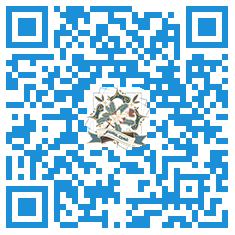
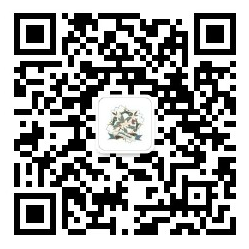
Yume AIO Frontend 27.1.1 (c)

diff --git a/frontend/index.html b/frontend/index.html
@@ -136,18 +136,18 @@
                             <!--社交链接-->
                             <div class="social" id="social">
                                 <button class="link" id="phone" show-lang="zh-cn,zh-tw,fr,en,ja">
-                                    <svg class="icon-28px-pd8" xmlns="http://www.w3.org/2000/svg" width="1em" height="1em" viewBox="0 0 24 24"><path fill="currentColor" d="M22 17.002a6 6 0 0 1-4.713 5.86l-.638-1.914A4 4 0 0 0 19.465 19H17a2 2 0 0 1-2-2v-4a2 2 0 0 1 2-2h2.938a8.001 8.001 0 0 0-15.876 0H7a2 2 0 0 1 2 2v4a2 2 0 0 1-2 2H4a2 2 0 0 1-2-2v-5C2 6.477 6.477 2 12 2s10 4.477 10 10zM20 17v-4h-3v4zM4 13v4h3v-4z"/></svg>
+                                    <svg class="icon-28px-pd8" xmlns="http://www.w3.org/2000/svg" width="1em" height="1em" viewBox="0 0 24 24"><g fill="none" stroke="currentColor" stroke-linecap="round" stroke-linejoin="round" stroke-width="1.5"><path d="M21 12a9 9 0 1 1-18 0a9 9 0 0 1 18 0"/><path d="m18 6l-3.525 3.525M6 18l3.525-3.525M6 6l3.525 3.525M18 18l-3.525-3.525m-4.95 0c-1.348-1.348-1.348-3.601 0-4.95m0 4.95c1.348 1.348 3.601 1.348 4.95 0m0 0c1.348-1.348 1.348-3.601 0-4.95m0 0c-1.348-1.348-3.601-1.348-4.95 0"/></g></svg>
                                 </button>
+                                <a href="mailto:support@yume.zone" class="link" show-lang="zh-cn,zh-tw,fr,en,ja" id="email">
+                                    <svg class="icon-28px-pd8" xmlns="http://www.w3.org/2000/svg" width="1em" height="1em" viewBox="0 0 24 24"><g fill="none" stroke="currentColor" stroke-linecap="round" stroke-linejoin="round" stroke-width="1.5"><path d="M22 12.5c0-.491-.005-1.483-.016-1.976c-.065-3.065-.098-4.598-1.229-5.733c-1.131-1.136-2.705-1.175-5.854-1.254a115 115 0 0 0-5.802 0c-3.149.079-4.723.118-5.854 1.254c-1.131 1.135-1.164 2.668-1.23 5.733a69 69 0 0 0 0 2.952c.066 3.065.099 4.598 1.23 5.733c1.131 1.136 2.705 1.175 5.854 1.254q1.204.03 2.401.036"/><path d="m7 8.5l2.942 1.74c1.715 1.014 2.4 1.014 4.116 0L17 8.5m5 9h-8m8 0c0-.7-1.994-2.008-2.5-2.5m2.5 2.5c0 .7-1.994 2.009-2.5 2.5"/></g></svg>
+                                </a>
                                 <a href="https://qm.qq.com/cgi-bin/qm/qr?k=TZsNAa_Lo7-WfwiXsBkCgVZA6vFeVjRp&noverify=0&personal_qrcode_source=4" class="link"
                                     id="qq" show-lang="zh-cn" target="_blank">
                                     <svg class="icon-28px-pd8" xmlns="http://www.w3.org/2000/svg" width="1em" height="1em" viewBox="0 0 24 24"><path fill="currentColor" d="M19.914 14.529a32 32 0 0 0-.676-1.886l-.91-2.246c.002-.026.013-.468.013-.696C18.34 5.86 16.508 2 12 2S5.66 5.86 5.66 9.7c0 .229.011.671.012.697l-.91 2.246a32 32 0 0 0-.675 1.886c-.86 2.737-.581 3.87-.369 3.895c.455.054 1.771-2.06 1.771-2.06c0 1.224.637 2.822 2.016 3.976c-.515.157-1.147.399-1.554.695c-.365.267-.319.54-.253.65c.289.481 4.955.307 6.303.157c1.347.15 6.014.324 6.302-.158c.066-.11.112-.382-.253-.649c-.407-.296-1.039-.538-1.555-.695c1.379-1.154 2.016-2.752 2.016-3.977c0 0 1.316 2.115 1.771 2.06c.212-.025.49-1.157-.37-3.894"/></svg>
                                 </a>
-                                <button class="link" id="wechat" show-lang="zh-cn,zh-tw">
+                                <button class="link" id="wechat">
                                     <svg class="icon-32px-pd8" xmlns="http://www.w3.org/2000/svg" width="1em" height="1em" viewBox="0 0 24 24"><path fill="currentColor" d="M15.85 8.14c.39 0 .77.03 1.14.08C16.31 5.25 13.19 3 9.44 3c-4.25 0-7.7 2.88-7.7 6.43c0 2.05 1.15 3.86 2.94 5.04L3.67 16.5l2.76-1.19c.59.21 1.21.38 1.87.47c-.09-.39-.14-.79-.14-1.21c-.01-3.54 3.44-6.43 7.69-6.43M12 5.89a.96.96 0 1 1 0 1.92a.96.96 0 0 1 0-1.92M6.87 7.82a.96.96 0 1 1 0-1.92a.96.96 0 0 1 0 1.92"/><path fill="currentColor" d="M22.26 14.57c0-2.84-2.87-5.14-6.41-5.14s-6.41 2.3-6.41 5.14s2.87 5.14 6.41 5.14c.58 0 1.14-.08 1.67-.2L20.98 21l-1.2-2.4c1.5-.94 2.48-2.38 2.48-4.03m-8.34-.32a.96.96 0 1 1 .96-.96c.01.53-.43.96-.96.96m3.85 0a.96.96 0 1 1 0-1.92a.96.96 0 0 1 0 1.92"/></svg>
                                 </button>
-                                </a>
-                                <a href="mailto:support@yume.zone" class="link" show-lang="zh-cn,zh-tw,fr,en,ja" id="email">
-                                    <svg class="icon-32px-pd8" xmlns="http://www.w3.org/2000/svg" width="1em" height="1em" viewBox="0 0 24 24"><g fill="currentColor" fill-rule="evenodd" stroke-width="1.5" clip-rule="evenodd"><path d="M7 4.25A2.75 2.75 0 0 0 4.25 7v1.25H5A2.25 2.25 0 0 1 6.677 12A2.25 2.25 0 0 1 5 15.75h-.75V17A2.75 2.75 0 0 0 7 19.75h13A2.75 2.75 0 0 0 22.75 17V7A2.75 2.75 0 0 0 20 4.25zm2.416 4.126a.75.75 0 0 0-.832 1.248l4.5 3a.75.75 0 0 0 .832 0l4.5-3a.75.75 0 0 0-.832-1.248L13.5 11.099z"/><path d="M5.75 13.5a.75.75 0 0 1-.75.75H3a.75.75 0 0 1 0-1.5h2a.75.75 0 0 1 .75.75m0-3a.75.75 0 0 1-.75.75H1a.75.75 0 0 1 0-1.5h4a.75.75 0 0 1 .75.75"/></g></svg>
                                 </a>
                                 <a href="https://t.me/yumeprincess" class="link" id="telegram" show-lang="fr,en,ja,zh-tw" target="_blank">
                                     <svg class="icon-28px-pd8" xmlns="http://www.w3.org/2000/svg" width="1em" height="1em" viewBox="0 0 24 24"><g fill="none"><g clip-path="url(#SVGXv8lpc2Y)"><path fill="currentColor" fill-rule="evenodd" d="M24 12c0 6.627-5.373 12-12 12S0 18.627 0 12S5.373 0 12 0s12 5.373 12 12M12.43 8.859q-1.75.728-6.998 3.014q-.852.339-.893.663c-.046.366.412.51 1.034.705l.263.084c.613.199 1.437.432 1.865.441q.583.012 1.302-.48q4.902-3.31 5.061-3.346c.075-.017.179-.039.249.024c.07.062.063.18.056.212c-.046.193-1.84 1.862-2.77 2.726c-.29.269-.495.46-.537.504q-.143.145-.282.279c-.57.548-.996.96.024 1.632c.49.323.882.59 1.273.856c.427.291.853.581 1.405.943q.21.14.405.28c.497.355.944.673 1.496.623c.32-.03.652-.331.82-1.23c.397-2.126 1.179-6.73 1.36-8.628a2 2 0 0 0-.02-.472a.5.5 0 0 0-.172-.325c-.143-.117-.365-.142-.465-.14c-.451.008-1.143.249-4.476 1.635" clip-rule="evenodd"/></g><defs><clipPath id="SVGXv8lpc2Y"><path fill="#fff" d="M0 0h24v24H0z"/></clipPath></defs></g></svg>
@@ -507,14 +507,21 @@
                 </div>   
                 <!-- 微信弹窗 -->
                 <div class="popup" id="wechat-popup">
-                    <div class="popup-content">
-                        <h3 key="YOVXFWH">雨梦Official服务号</h3>
-                        <p key="SMGZFWH">请扫描以下二维码或点击跳转链接按钮关注雨梦Official服务号</p>
-                        <!-- 二维码图片 -->
-                        <img src="/img/officialwx.png" class="wechat-qrcode" loading="lazy" decoding="async">
-                        <div class="button-group">
-                            <button class="btn cancel-btn" id="wechat-cancel" key="QUXIAO">取消</button>
-                            <button class="btn confirm-btn" id="wechat-link" key="TIAOZHUANVXLIANJIE">跳转链接</button>
+                    <div class="popup-content wechat-popup-content">
+                        <h3 key="WECHAT_TITLE">雨梦微信公众号、小程序</h3>
+                        <p key="WECHAT_DESCRIPTION">请使用微信扫描以下二维码关注雨梦Official微信公众号和使用雨梦All in One小程序。</p>
+                        <div class="wechat-qr-codes">
+                            <figure class="wechat-qr-item">
+                                <img src="/img/officialwx.png" class="wechat-qrcode" alt="雨梦Official微信公众号二维码" loading="lazy" decoding="async">
+                                <figcaption key="WECHAT_OFFICIAL_CAPTION">雨梦Official服务号</figcaption>
+                            </figure>
+                            <figure class="wechat-qr-item">
+                                <img src="/img/officialxcx.png" class="wechat-qrcode" alt="Yume All in One小程序二维码" loading="lazy" decoding="async">
+                                <figcaption key="WECHAT_MINI_PROGRAM_CAPTION">Yume All in One小程序</figcaption>
+                            </figure>
+                        </div>
+                        <div class="button-group wechat-button-group">
+                            <button class="btn cancel-btn" id="wechat-cancel" type="button" key="WECHAT_CLOSE">关闭</button>
                         </div>
                     </div>
                 </div>    
@@ -540,9 +547,9 @@
     <script type="text/javascript" src="/js/iziToast.min.js"></script>
     <script src="/js/swiper-bundle.min.js"></script>
     <script type="text/javascript" src="/js/link.js"></script>
-    <script type="text/javascript" src="/js/lang.js?v=20260718-2"></script>
+    <script type="text/javascript" src="/js/lang.js?v=20261005-1"></script>
     <script src="/js/loading-resources.js?v=20261003-background-2"></script>
-    <script type="text/javascript" src="/js/main.js?v=20261003-background-2"></script>
+    <script type="text/javascript" src="/js/main.js?v=20261005-1"></script>
     <script type="text/javascript" src="/js/time.js?v=20260718-1"></script>
     <script type="text/javascript" src="/js/js.cookie.js"></script>
     <script type="text/javascript" src="/js/set.js?v=20261003-resources-1"></script>

diff --git a/frontend/js/lang.js b/frontend/js/lang.js
@@ -96,9 +96,12 @@ var arrLang = {
 		"REFUNDS": "Refund Policy",
 		"BIZHISHEDINGCHENGGONG": "Wallpaper set successfully",
 		"OPENJS": "Please enable JavaScript",
-		"YOVXFWH": "Yume Official Service Account",
-		"SMGZFWH": "Please scan the QR code below or click the redirect button to follow the Yume Official Service Account",
-		"TIAOZHUANVXLIANJIE": "Redirect Link",
+		"YOVXFWH": "Yume Official WeChat",
+		"WECHAT_TITLE": "Yume Official WeChat Account & Mini Program",
+		"WECHAT_DESCRIPTION": "Scan the QR codes below with WeChat to follow Yume Official and use the Yume All in One mini program.",
+		"WECHAT_OFFICIAL_CAPTION": "Yume Official Service Account",
+		"WECHAT_MINI_PROGRAM_CAPTION": "Yume All in One Mini Program",
+		"WECHAT_CLOSE": "Close",
 		"NO_ANNOUNCEMENT": "There are currently no system announcements, maintenance notices, or update announcements. Thank you for supporting Yume Official!",
 		"ZUOZHEBUXIANG": "Author unknown",
 		"TERMS_LOAD_ERROR": "Failed to load terms file"
@@ -199,9 +202,12 @@ var arrLang = {
 		"REFUNDS": "退款政策",
 		"BIZHISHEDINGCHENGGONG": "壁纸设置成功",
 		"OPENJS": "请开启 JavaScript",
-		"YOVXFWH": "雨梦Official服务号",
-		"SMGZFWH": "请扫描以下二维码或点击跳转链接按钮关注雨梦Official服务号",
-		"TIAOZHUANVXLIANJIE": "跳转链接",
+		"YOVXFWH": "雨梦官方微信",
+		"WECHAT_TITLE": "雨梦微信公众号、小程序",
+		"WECHAT_DESCRIPTION": "请使用微信扫描以下二维码关注雨梦Official微信公众号和使用雨梦All in One小程序。",
+		"WECHAT_OFFICIAL_CAPTION": "雨梦Official服务号",
+		"WECHAT_MINI_PROGRAM_CAPTION": "Yume All in One小程序",
+		"WECHAT_CLOSE": "关闭",
 		"NO_ANNOUNCEMENT": "当前没有系统公告、系统维护通知或更新公告，感谢您对雨梦Official的支持！",
 		"ZUOZHEBUXIANG": "作者不详",
 		"TERMS_LOAD_ERROR": "无法加载条款文件"
@@ -306,9 +312,12 @@ var arrLang = {
 		"REFUNDS": "退款政策",
 		"BIZHISHEDINGCHENGGONG": "桌布設定成功",
 		"OPENJS": "請啟用 JavaScript",
-		"YOVXFWH": "雨夢Official服務號",
-		"SMGZFWH": "請掃描下方 QR Code 或點擊跳轉連結按鈕關注雨夢Official服務號",
-		"TIAOZHUANVXLIANJIE": "跳轉連結",
+		"YOVXFWH": "雨夢官方微信",
+		"WECHAT_TITLE": "雨夢Official微信公眾號、小程序",
+		"WECHAT_DESCRIPTION": "請使用微信掃描下方 QR Code 關注雨夢Official微信公眾號，並使用雨夢All in One小程序。",
+		"WECHAT_OFFICIAL_CAPTION": "雨夢Official服務號",
+		"WECHAT_MINI_PROGRAM_CAPTION": "Yume All in One小程序",
+		"WECHAT_CLOSE": "關閉",
 		"NO_ANNOUNCEMENT": "當前沒有系統公告、系統維護通知或更新公告，感謝您對雨夢Official的支持！",
 		"ZUOZHEBUXIANG": "作者不詳",
 		"TERMS_LOAD_ERROR": "無法載入條款文件"
@@ -409,9 +418,12 @@ var arrLang = {
 		"REFUNDS": "Politique de Remboursement",
 		"BIZHISHEDINGCHENGGONG": "Fond d’écran défini avec succès",
 		"OPENJS": "Veuillez activer JavaScript",
-		"YOVXFWH": "Compte de service Yume Official",
-		"SMGZFWH": "Veuillez scanner le QR code ci-dessous ou cliquer sur le bouton de lien pour suivre le compte de service Yume Official",
-		"TIAOZHUANVXLIANJIE": "Lien de redirection",
+		"YOVXFWH": "Compte WeChat officiel de Yume",
+		"WECHAT_TITLE": "Compte WeChat et mini-programme Yume Official",
+		"WECHAT_DESCRIPTION": "Scannez les codes QR ci-dessous avec WeChat pour suivre Yume Official et utiliser le mini-programme Yume All in One.",
+		"WECHAT_OFFICIAL_CAPTION": "Compte de service Yume Official",
+		"WECHAT_MINI_PROGRAM_CAPTION": "Mini-programme Yume All in One",
+		"WECHAT_CLOSE": "Fermer",
 		"NO_ANNOUNCEMENT": "Il n'y a actuellement aucun avis système, notification de maintenance ou annonce de mise à jour. Merci de soutenir Yume Official !",
 		"ZUOZHEBUXIANG": "Auteur inconnu",
 		"TERMS_LOAD_ERROR": "Impossible de charger le fichier des conditions"
@@ -512,9 +524,12 @@ var arrLang = {
 		"REFUNDS": "返金ポリシー",
 		"BIZHISHEDINGCHENGGONG": "壁紙が正常に設定されました",
 		"OPENJS": "JavaScriptを有効にしてください",
-		"YOVXFWH": "雨夢Officialサービスアカウント",
-		"SMGZFWH": "以下のQRコードをスキャンするか、リンクボタンをクリックして雨夢Officialサービスアカウントをフォローしてください",
-		"TIAOZHUANVXLIANJIE": "リンクへ移動",
+		"YOVXFWH": "雨夢公式WeChat",
+		"WECHAT_TITLE": "雨夢Official WeChat公式アカウント・ミニプログラム",
+		"WECHAT_DESCRIPTION": "WeChatで以下のQRコードをスキャンして、雨夢Officialをフォローし、Yume All in Oneミニプログラムをご利用ください。",
+		"WECHAT_OFFICIAL_CAPTION": "雨夢Officialサービスアカウント",
+		"WECHAT_MINI_PROGRAM_CAPTION": "Yume All in Oneミニプログラム",
+		"WECHAT_CLOSE": "閉じる",
 		"NO_ANNOUNCEMENT": "現在、システムのお知らせ、メンテナンス通知、または更新通知はありません。雨夢Officialをサポートしていただき、ありがとうございます！",
 		"ZUOZHEBUXIANG": "作者不明",
 		"TERMS_LOAD_ERROR": "利用規約ファイルを読み込めませんでした"

diff --git a/frontend/js/link.js b/frontend/js/link.js
@@ -14,22 +14,16 @@ const siteLinks = [
     Svg: `<svg class="icon-35px-pd5" xmlns="http://www.w3.org/2000/svg" width="1em" height="1em" viewBox="0 0 16 16"><path fill="currentColor" d="M8 .8A7.2 7.2 0 1 0 15.2 8A7.21 7.21 0 0 0 8 .8m0 13.553A6.353 6.353 0 1 1 14.355 8A6.36 6.36 0 0 1 8 14.353m3.2-10.12L6.682 6.492a.42.42 0 0 0-.19.19l-2.259 4.517a.423.423 0 0 0 .569.568L9.319 9.51a.42.42 0 0 0 .19-.19L11.77 4.8a.423.423 0 0 0-.57-.568m-2.385 4.58l-3.255 1.63l1.623-3.255l3.255-1.623z"/></svg>`
   },
   {
-    nameKey: "YCHAT",
-    name: "CHAT",
-    link: "https://chat.yume.zone/",
-    Svg: `<svg class="icon-35px-pd5" xmlns="http://www.w3.org/2000/svg" width="1em" height="1em" viewBox="0 0 24 24"><g fill="none" stroke="currentColor" stroke-linecap="round" stroke-linejoin="round"><path stroke-width="2" d="M12.005 11h.008M8.01 11h.009"/><path stroke-width="1.5" d="M12 3c-1.48 0-2.905.03-4.244.088c-2.44.105-3.66.157-4.626 1.13c-.965.972-1.007 2.159-1.09 4.532a64 64 0 0 0 0 4.5c.083 2.373.125 3.56 1.09 4.532c.965.973 2.186 1.025 4.626 1.13l.244.01v2.348a.73.73 0 0 0 1.205.554l2.18-1.869c.547-.47.821-.704 1.147-.828s.696-.131 1.437-.145q1.171-.023 2.275-.07c2.44-.105 3.66-.157 4.626-1.13c.965-.972 1.007-2.159 1.09-4.532q.032-.854.038-1.75"/><path stroke-width="1.5" d="M21.109 2.598C20.373 2.222 19.473 2 18.5 2s-1.873.222-2.609.598c-.36.185-.541.277-.716.568S15 3.737 15 4.299v1.396c0 2.273 1.767 3.537 2.79 4.079c.285.15.428.226.71.226s.425-.075.71-.226C20.234 9.232 22 7.968 22 5.694V4.3c0-.562 0-.843-.175-1.133s-.355-.383-.716-.568"/></g></svg>`
-  },
-  {
     nameKey: "YMAIL",
     name: "MAIL",
     link: "https://mail.yume.zone/",
     Svg: `<svg class="icon-35px-pd5" xmlns="http://www.w3.org/2000/svg" width="1em" height="1em" viewBox="0 0 24 24"><g fill="none" stroke="currentColor" stroke-linecap="round" stroke-linejoin="round" stroke-width="1.5"><path d="m7 7.5l2.942 1.74c1.715 1.014 2.4 1.014 4.116 0L17 7.5"/><path d="M12.5 19.5s-2.43-.012-3.401-.037c-3.149-.079-4.723-.118-5.854-1.254c-1.131-1.135-1.164-2.668-1.23-5.733a69 69 0 0 1 0-2.952c.066-3.065.099-4.598 1.23-5.733C4.376 2.655 5.95 2.616 9.099 2.537a115 115 0 0 1 5.802 0c3.149.079 4.723.118 5.854 1.254c1.131 1.135 1.164 2.668 1.23 5.733c.01.493.015 1.485.015 1.976"/><path d="M22 17v-2.5c-2 0-3.5-1-3.5-1s-1.5 1-3.5 1V17c0 3.5 3.5 4.5 3.5 4.5s3.5-1 3.5-4.5"/></g></svg>`
   },
   {
-    nameKey: "CLOUD",
-    name: "DRIVE",
-    link: "https://drive.yume.zone/",
-    Svg: `<svg class="icon-35px-pd5" xmlns="http://www.w3.org/2000/svg" width="1em" height="1em" viewBox="0 0 24 24"><path fill="currentColor" d="M6.5 18H13v2H6.5c-1.5 0-2.81-.5-3.89-1.57C1.54 17.38 1 16.09 1 14.58q0-1.95 1.17-3.48C3.34 9.57 4 9.43 5.25 9.15c.42-1.53 1.25-2.77 2.5-3.72S10.42 4 12 4c1.95 0 3.6.68 4.96 2.04c1.12 1.12 1.77 2.46 1.97 3.96c-.7 0-1.37.19-1.98.46a4.8 4.8 0 0 0-1.41-3C14.56 6.5 13.38 6 12 6s-2.56.5-3.54 1.46C7.5 8.44 7 9.62 7 11h-.5c-.97 0-1.79.34-2.47 1.03c-.69.68-1.03 1.5-1.03 2.47s.34 1.79 1.03 2.5c.68.66 1.5 1 2.47 1m16.5-.7v3.5c0 .6-.6 1.2-1.3 1.2h-5.5c-.6 0-1.2-.6-1.2-1.3v-3.5c0-.6.6-1.2 1.2-1.2v-1.5c0-1.4 1.4-2.5 2.8-2.5s2.8 1.1 2.8 2.5V16c.6 0 1.2.6 1.2 1.3m-2.5-2.8c0-.8-.7-1.3-1.5-1.3s-1.5.5-1.5 1.3V16h3z"/></svg>`
+    nameKey: "YCHAT",
+    name: "CHAT",
+    link: "https://chat.yume.zone/",
+    Svg: `<svg class="icon-35px-pd5" xmlns="http://www.w3.org/2000/svg" width="1em" height="1em" viewBox="0 0 24 24"><g fill="none" stroke="currentColor" stroke-linecap="round" stroke-linejoin="round"><path stroke-width="2" d="M12.005 11h.008M8.01 11h.009"/><path stroke-width="1.5" d="M12 3c-1.48 0-2.905.03-4.244.088c-2.44.105-3.66.157-4.626 1.13c-.965.972-1.007 2.159-1.09 4.532a64 64 0 0 0 0 4.5c.083 2.373.125 3.56 1.09 4.532c.965.973 2.186 1.025 4.626 1.13l.244.01v2.348a.73.73 0 0 0 1.205.554l2.18-1.869c.547-.47.821-.704 1.147-.828s.696-.131 1.437-.145q1.171-.023 2.275-.07c2.44-.105 3.66-.157 4.626-1.13c.965-.972 1.007-2.159 1.09-4.532q.032-.854.038-1.75"/><path stroke-width="1.5" d="M21.109 2.598C20.373 2.222 19.473 2 18.5 2s-1.873.222-2.609.598c-.36.185-.541.277-.716.568S15 3.737 15 4.299v1.396c0 2.273 1.767 3.537 2.79 4.079c.285.15.428.226.71.226s.425-.075.71-.226C20.234 9.232 22 7.968 22 5.694V4.3c0-.562 0-.843-.175-1.133s-.355-.383-.716-.568"/></g></svg>`
   }
 ];
 

diff --git a/frontend/css/style.css b/frontend/css/style.css
@@ -1798,6 +1798,47 @@ footer {
     padding: 6px;
 }
 
+.wechat-popup-content {
+    width: min(calc(100% - 32px), 440px);
+    max-width: 440px;
+    box-sizing: border-box;
+}
+
+.wechat-qr-codes {
+    display: flex;
+    align-items: flex-start;
+    justify-content: center;
+    gap: 16px;
+    width: 100%;
+    margin: 16px auto 0;
+}
+
+.wechat-qr-item {
+    flex: 1 1 0;
+    min-width: 0;
+    margin: 0;
+}
+
+.wechat-qr-item .wechat-qrcode {
+    width: 100%;
+    max-width: 160px;
+    height: auto;
+    aspect-ratio: 1;
+    box-sizing: border-box;
+    margin: 0 auto 10px;
+    object-fit: contain;
+}
+
+.wechat-qr-item figcaption {
+    color: var(--site-text);
+    font-size: 0.9rem;
+    line-height: 1.4;
+}
+
+.wechat-button-group {
+    justify-content: center;
+}
+
 /* v26.2 LINK翻页 */
 .link .swiper {
     width: 100%;

diff --git a/frontend/js/main.js b/frontend/js/main.js
@@ -971,7 +971,6 @@ const cancelButton = document.getElementById('cancel-button');
 const wechatButton = document.getElementById('wechat');
 const wechatPopup = document.getElementById('wechat-popup');
 const wechatCancel = document.getElementById('wechat-cancel');
-const wechatLink = document.getElementById('wechat-link');
 
 // 电话弹窗
 phoneButton.addEventListener('click', (event) => {
@@ -1000,10 +999,6 @@ wechatButton.addEventListener('click', (event) => {
 
 wechatCancel.addEventListener('click', () => {
     wechatPopup.classList.remove('show');
-});
-
-wechatLink.addEventListener('click', () => {
-    window.location.href = 'http://weixin.qq.com/r/mp/diDr8ynE73SQrW2Q93Vk';
 });
 
 // 点击遮罩关闭
